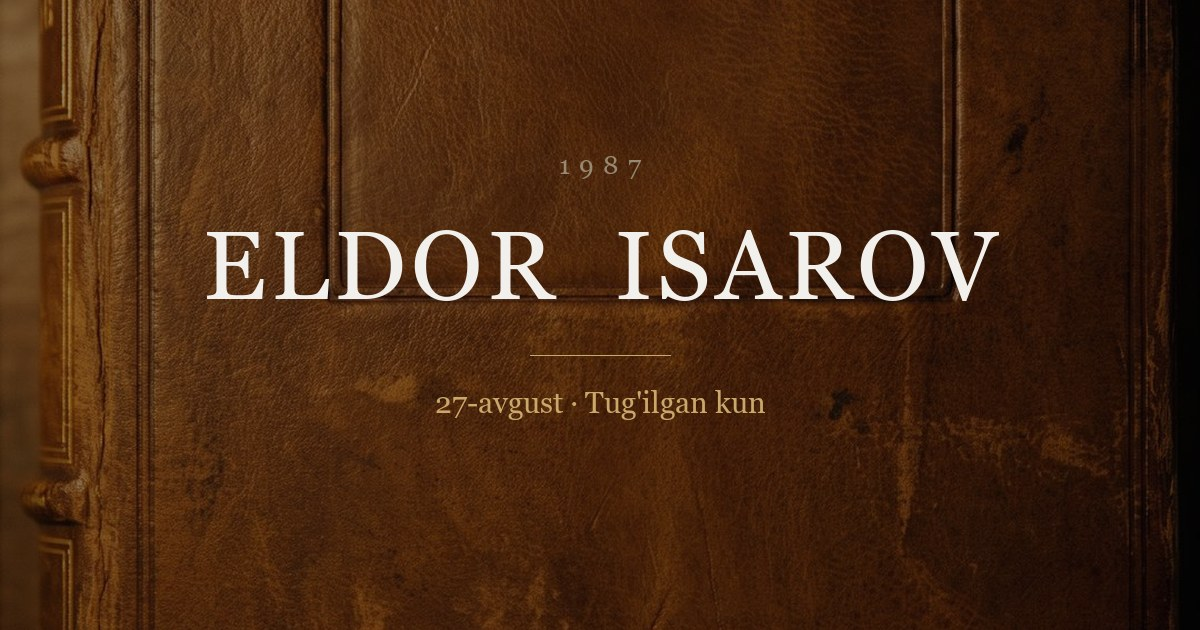
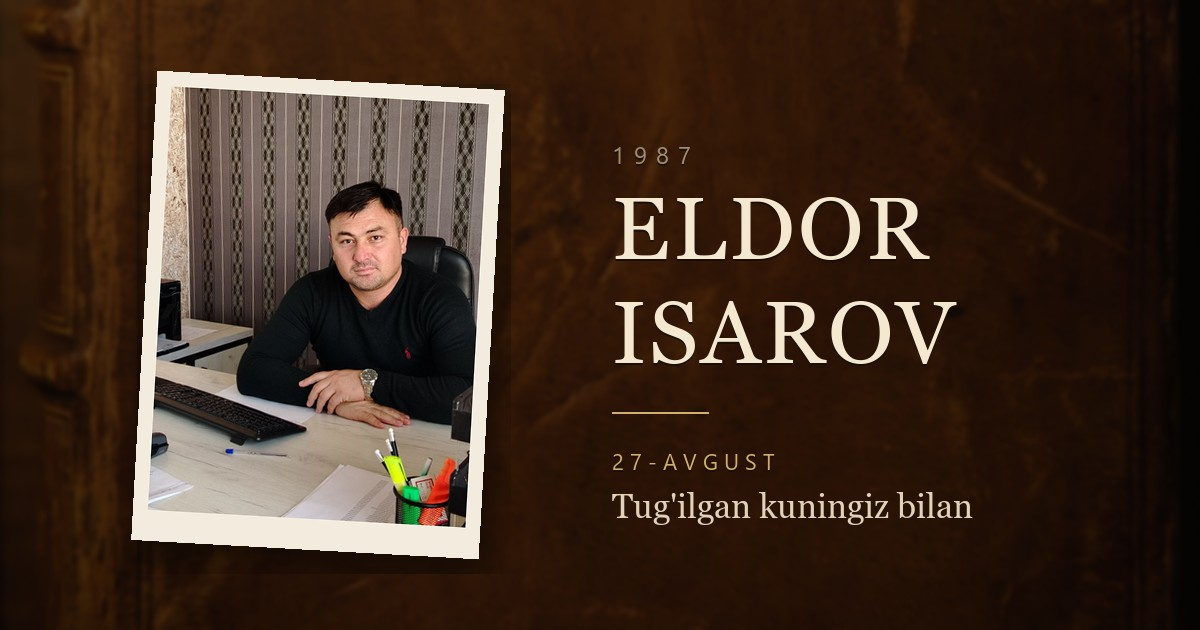
Telegram havola kartochkasi qaytadan yasaldi
Eski kartochka faqat charm muqova edi — ismdan boshqa hech narsa
yo'q. Endi unda dadaning surati albom varag'iga yopishtirilgandek
turadi: oq hoshiya, sal qiyshiq, ostida soya.

Fon uchun ataylab nanobanana chiqargan YOZUVSIZ muqova olindi.
img/cover.jpg videoning oxirgi kadri bo'lgani uchun unda yozuv
allaqachon bor edi va fon qilinganda matn ikki marta chiqardi.

Kartochka matni ham almashtirildi: quruq "Tug'ilgan kun" o'rniga
odamni ichkariga chaqiradigan gap.

diff --git a/index.html b/index.html
@@ -14,17 +14,18 @@
 <meta property="og:type" content="website">
 <meta property="og:site_name" content="Tabriknoma">
 <meta property="og:locale" content="uz_UZ">
-<meta property="og:title" content="Eldor Isarov — Tug'ilgan kun">
-<meta property="og:description" content="27-avgust 1987. Suratlar, tilaklar va sizning tilagingiz uchun joy.">
+<meta property="og:title" content="Eldor Isarov — Tug'ilgan kuningiz bilan">
+<meta property="og:description" content="27-avgust 1987. Kitobni oching — suratlar, tilaklar va mehmonlar daftari.">
 <meta property="og:url" content="https://eldor-tabrik.netlify.app/">
 <meta property="og:image" content="https://eldor-tabrik.netlify.app/img/og.jpg">
+<meta property="og:image:type" content="image/jpeg">
 <meta property="og:image:width" content="1200">
 <meta property="og:image:height" content="630">
 <meta property="og:image:alt" content="Eldor Isarov — tabriknoma">
 
 <meta name="twitter:card" content="summary_large_image">
-<meta name="twitter:title" content="Eldor Isarov — Tug'ilgan kun">
-<meta name="twitter:description" content="27-avgust 1987. Suratlar, tilaklar va sizning tilagingiz uchun joy.">
+<meta name="twitter:title" content="Eldor Isarov — Tug'ilgan kuningiz bilan">
+<meta name="twitter:description" content="27-avgust 1987. Kitobni oching — suratlar, tilaklar va mehmonlar daftari.">
 <meta name="twitter:image" content="https://eldor-tabrik.netlify.app/img/og.jpg">
 
 <link rel="preconnect" href="https://fonts.googleapis.com">
